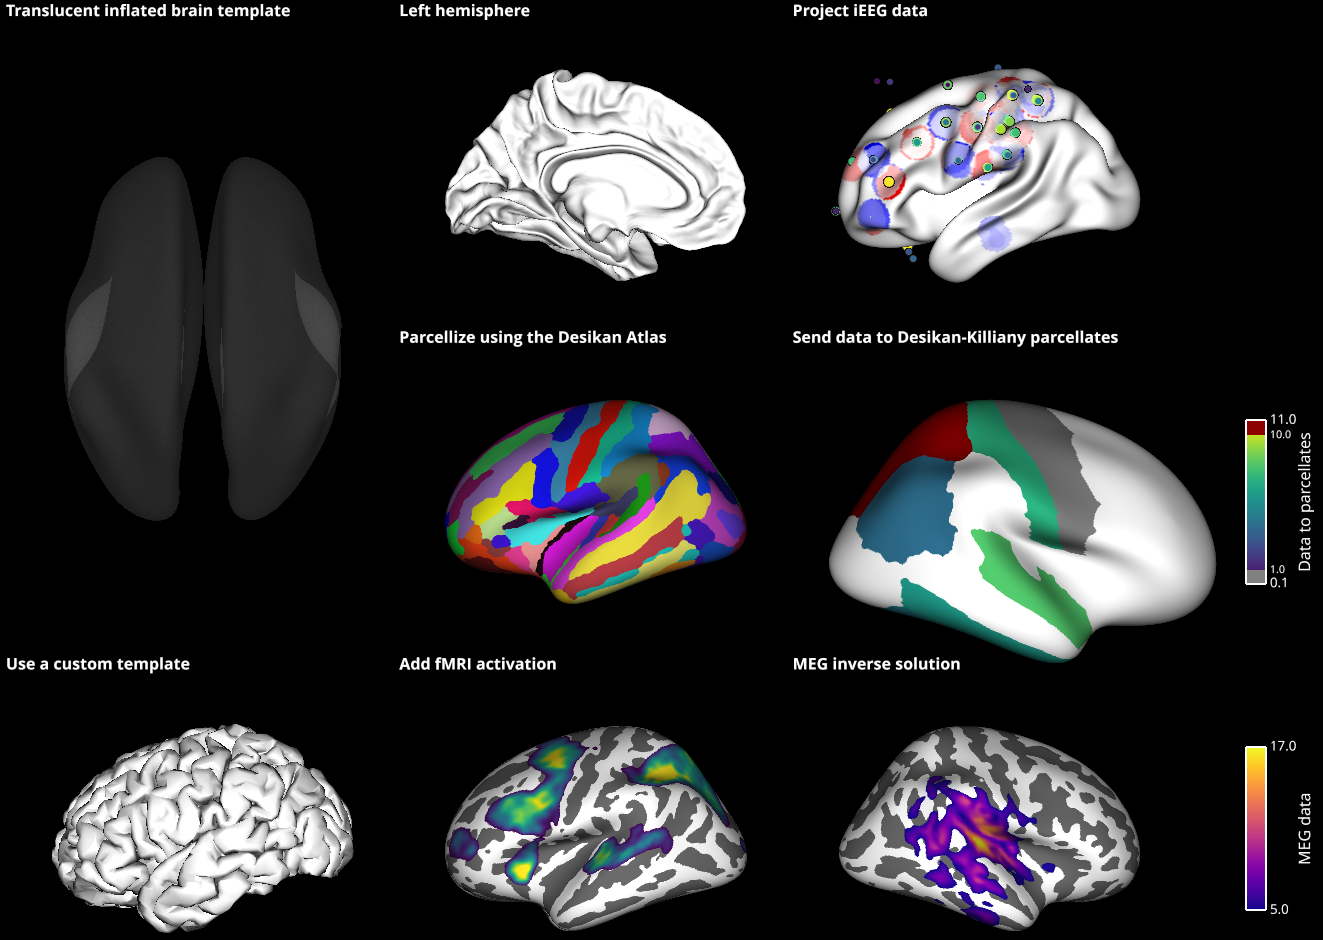
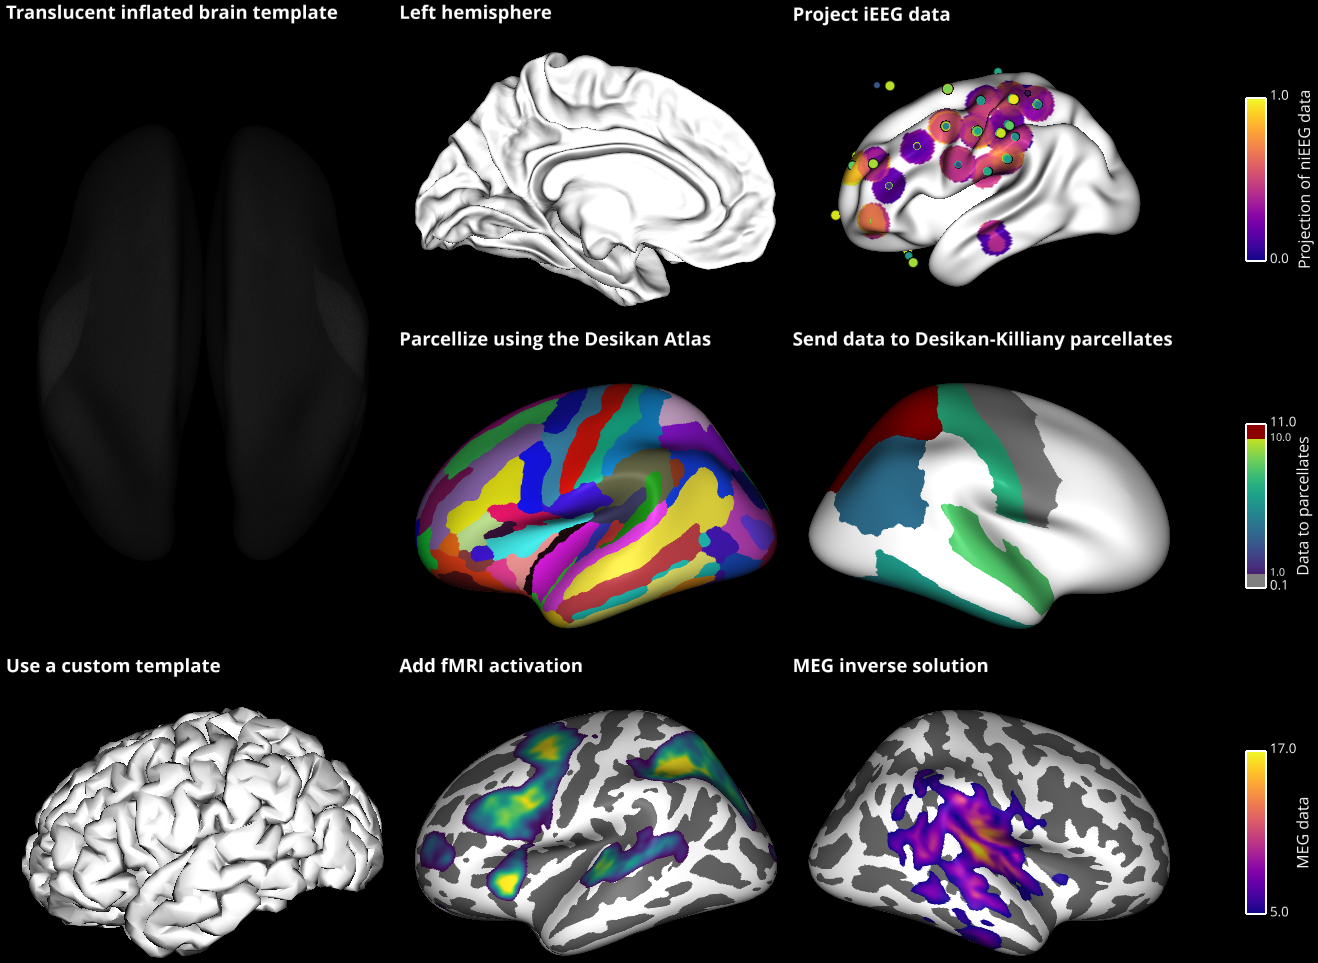
Improve brainobj example

diff --git a/examples/objects/ex_brain_obj.py b/examples/objects/ex_brain_obj.py
@@ -30,6 +30,7 @@ sc = SceneObj(bgcolor='black', size=(1400, 1000))
 # Colorbar default arguments. See `visbrain.objects.ColorbarObj`
 CBAR_STATE = dict(cbtxtsz=12, txtsz=10., width=.1, cbtxtsh=3.,
                   rect=(-.3, -2., 1., 4.))
+KW = dict(title_size=14., zoom=1.2)
 
 ###############################################################################
 # .. note::
@@ -57,7 +58,7 @@ b_obj_fs = BrainObj('inflated', translucent=True, hemisphere='both')
 # Add the brain to the scene. Note that `row_span` means that the plot will
 # occupy two rows (row 0 and 1)
 sc.add_to_subplot(b_obj_fs, row=0, col=0, row_span=2,
-                  title='Translucent inflated brain template')
+                  title='Translucent inflated brain template', **KW)
 
 ###############################################################################
 # Select the left or the right hemisphere
@@ -68,7 +69,7 @@ sc.add_to_subplot(b_obj_fs, row=0, col=0, row_span=2,
 # Opaque left hemispehre of the white matter
 b_obj_lw = BrainObj('white', hemisphere='left', translucent=False)
 sc.add_to_subplot(b_obj_lw, row=0, col=1, rotate='right',
-                  title='Left hemisphere')
+                  title='Left hemisphere', **KW)
 
 ###############################################################################
 # Projection iEEG data on the surface of the brain
@@ -83,10 +84,13 @@ s_obj = SourceObj('iEEG', xyz, data=data, cmap='inferno')
 # Just for fun, color sources according to the data :)
 s_obj.color_sources(data=data)
 # Project source's activity
-s_obj.project_sources(b_obj_proj, cmap='bwr')
+s_obj.project_sources(b_obj_proj, cmap='plasma')
 # Finally, add the source and brain objects to the subplot
-sc.add_to_subplot(s_obj, row=0, col=2, title='Project iEEG data')
+sc.add_to_subplot(s_obj, row=0, col=2, title='Project iEEG data', **KW)
 sc.add_to_subplot(b_obj_proj, row=0, col=2, rotate='left', use_this_cam=True)
+# Finally, add the colorbar :
+cb_proj = ColorbarObj(s_obj, cblabel='Projection of niEEG data', **CBAR_STATE)
+sc.add_to_subplot(cb_proj, row=0, col=3, width_max=200)
 
 ###############################################################################
 # .. note::
@@ -108,7 +112,7 @@ print(b_obj_parl.get_parcellates(path_to_file1))
 # Finally, parcellize the brain and add the brain to the scene
 b_obj_parl.parcellize(path_to_file1)
 sc.add_to_subplot(b_obj_parl, row=1, col=1, rotate='left',
-                  title='Parcellize using the Desikan Atlas')
+                  title='Parcellize using the Desikan Atlas', **KW)
 
 ###############################################################################
 # .. note::
@@ -143,7 +147,7 @@ b_obj_parr.parcellize(path_to_file2, select=select_par, hemisphere='right',
                       vmax=10, under='gray', over='darkred')
 # Add the brain object to the scene
 sc.add_to_subplot(b_obj_parr, row=1, col=2, rotate='right',
-                  title='Send data to Desikan-Killiany parcellates')
+                  title='Send data to Desikan-Killiany parcellates', **KW)
 # Get the colorbar of the brain object and add it to the scene
 cb_parr = ColorbarObj(b_obj_parr, cblabel='Data to parcellates', **CBAR_STATE)
 sc.add_to_subplot(cb_parr, row=1, col=3, width_max=200)
@@ -170,7 +174,7 @@ lr_index = vert[0, :] <= 0.
 b_obj_custom = BrainObj('Custom', vertices=vert, faces=faces,
                         normals=norms, translucent=False)
 sc.add_to_subplot(b_obj_custom, row=2, col=0, title='Use a custom template',
-                  rotate='left')
+                  rotate='left', **KW)
 
 ###############################################################################
 # .. note::
@@ -193,7 +197,7 @@ b_obj_fmri = BrainObj('inflated', translucent=False, sulcus=True)
 b_obj_fmri.add_activation(file=file, clim=(5., 20.), hide_under=5,
                           cmap='viridis', hemisphere='left')
 sc.add_to_subplot(b_obj_fmri, row=2, col=1, title='Add fMRI activation',
-                  rotate='left')
+                  rotate='left', **KW)
 
 ###############################################################################
 # MEG inverse solution
@@ -215,7 +219,7 @@ b_obj_meg.add_activation(data=data, vertices=vertices, hemisphere='right',
                          cmap='plasma')
 # Add the brain and the colorbar object to the scene
 sc.add_to_subplot(b_obj_meg, row=2, col=2, title='MEG inverse solution',
-                  rotate='right')
+                  rotate='right', **KW)
 cb_parr = ColorbarObj(b_obj_meg, cblabel='MEG data', **CBAR_STATE)
 sc.add_to_subplot(cb_parr, row=2, col=3, width_max=200)
 
@@ -229,7 +233,7 @@ sc.add_to_subplot(cb_parr, row=2, col=3, width_max=200)
 # automatize figure generation.
 
 # Link the rotation of subplots (row=0, col=1) and (row=1, col=2)
-sc.link((0, 1), (1, 2))
+# sc.link((0, 1), (1, 2))
 # Screenshot of the scene
 # sc.screenshot('ex_brain_obj.png', transparent=True)
 
